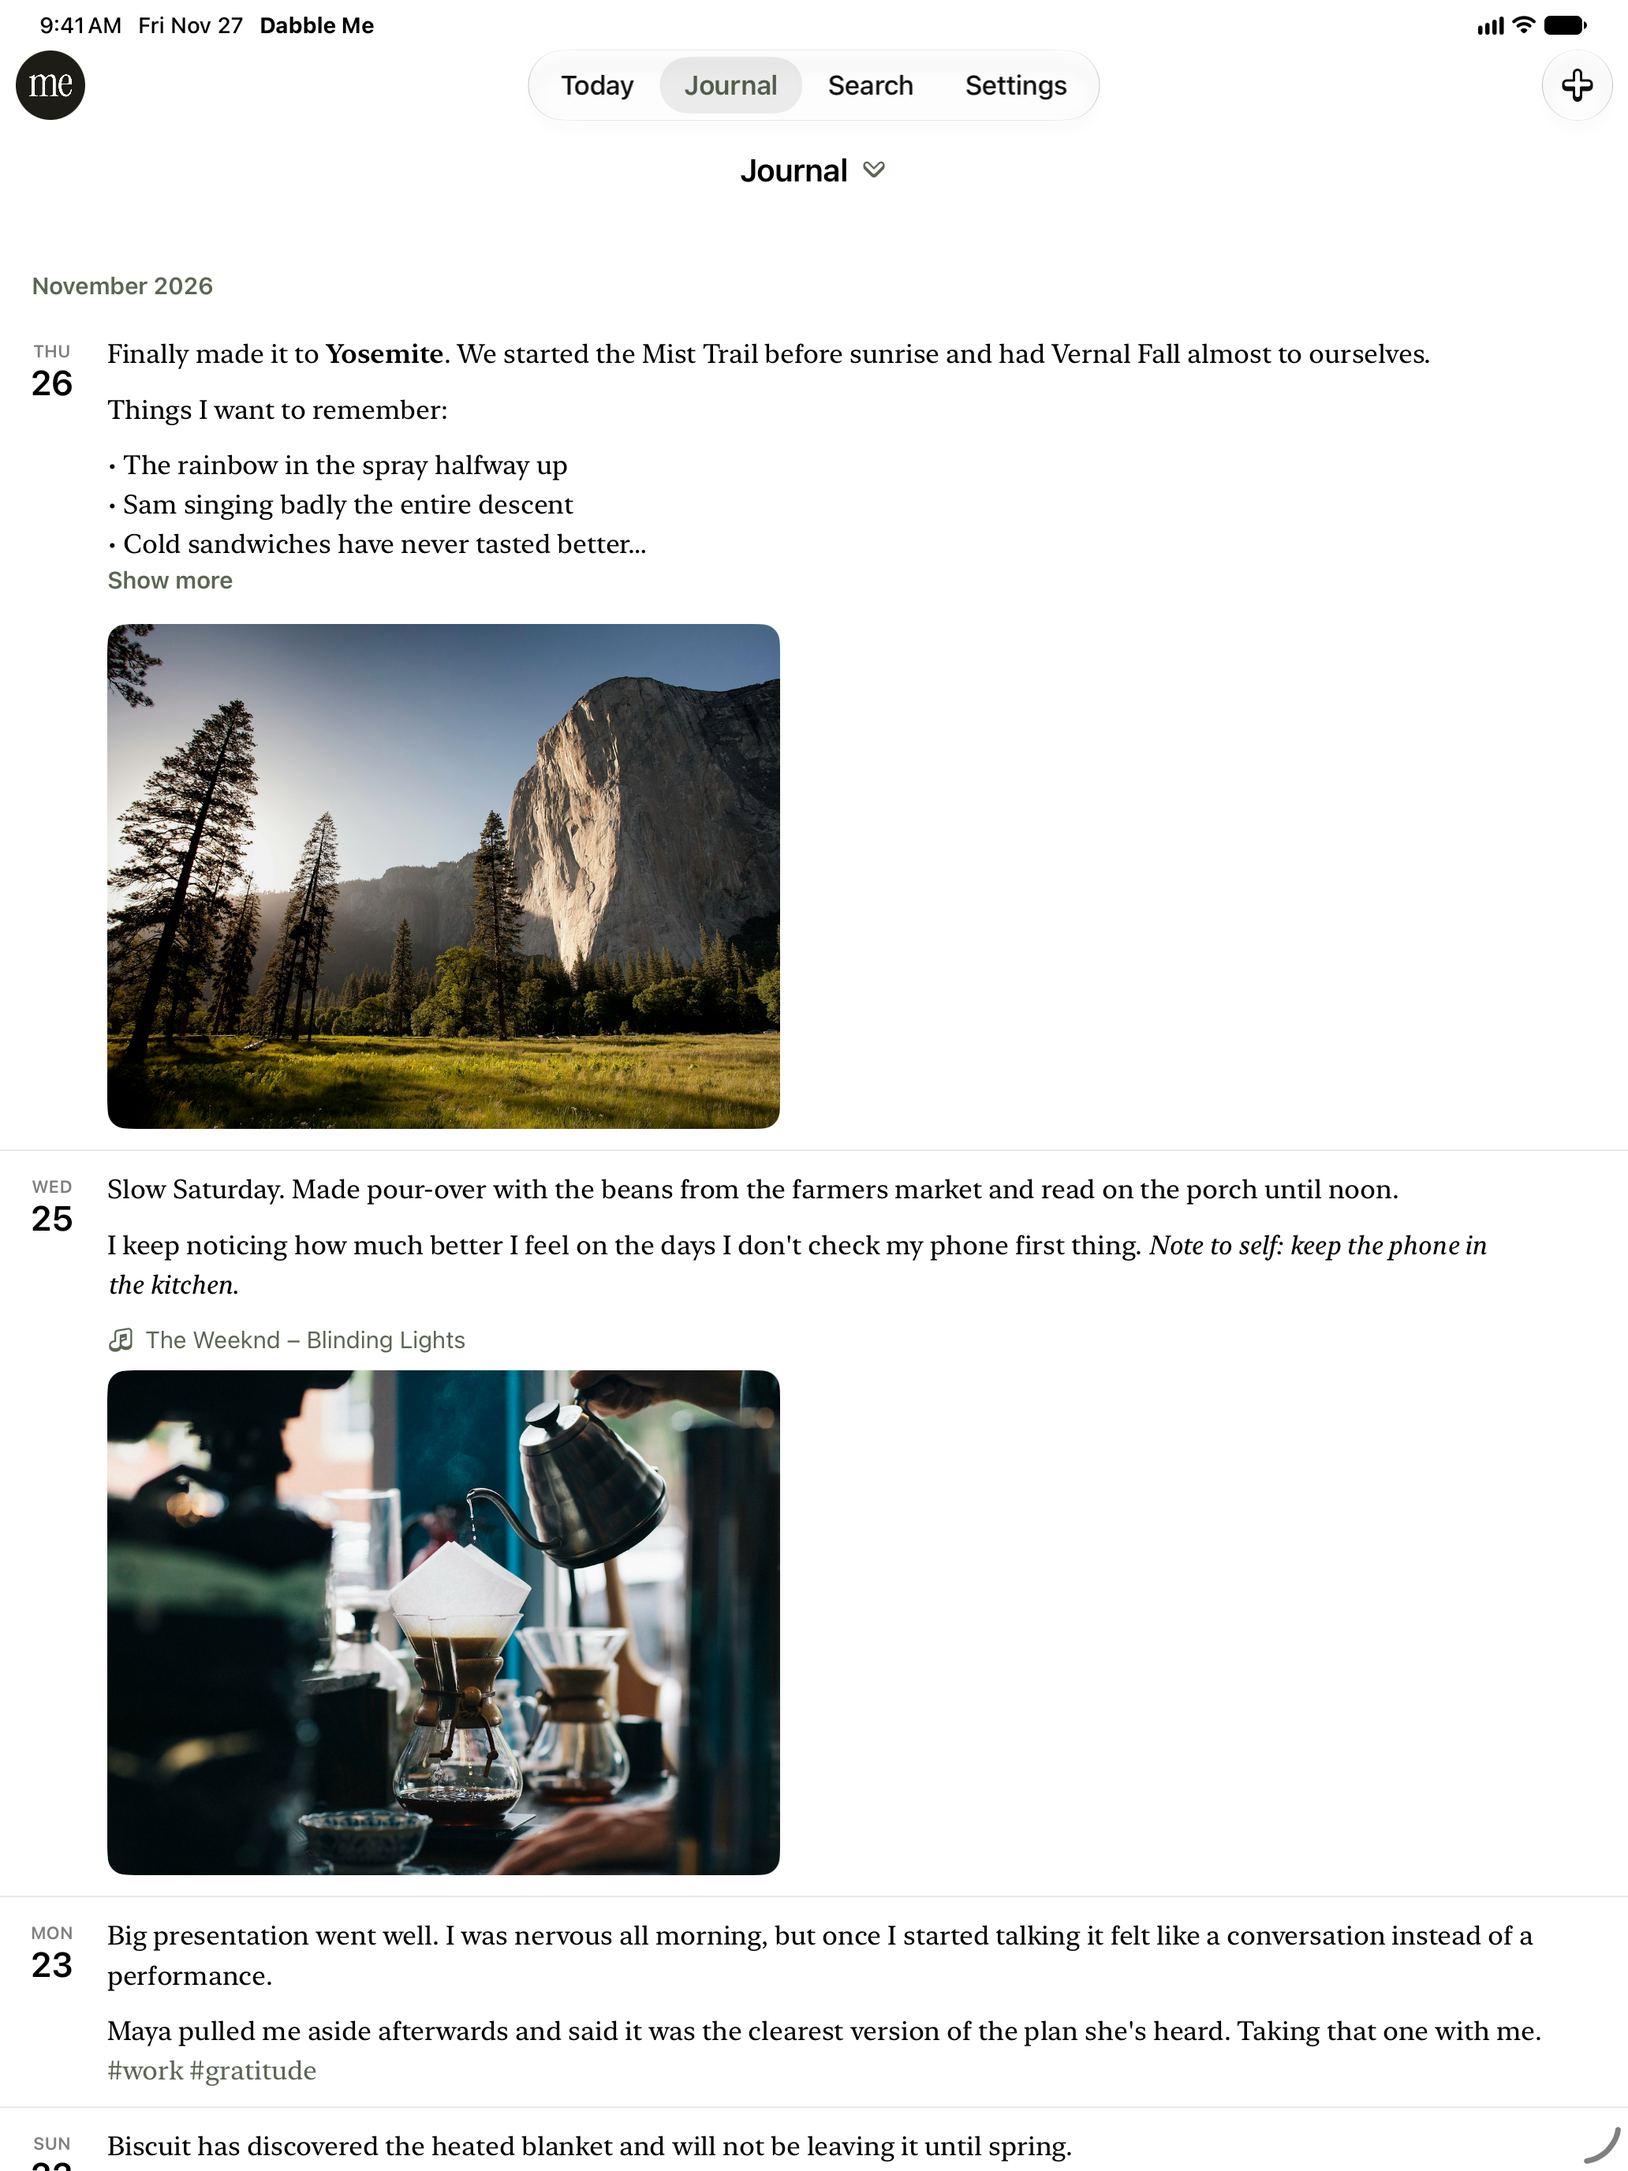
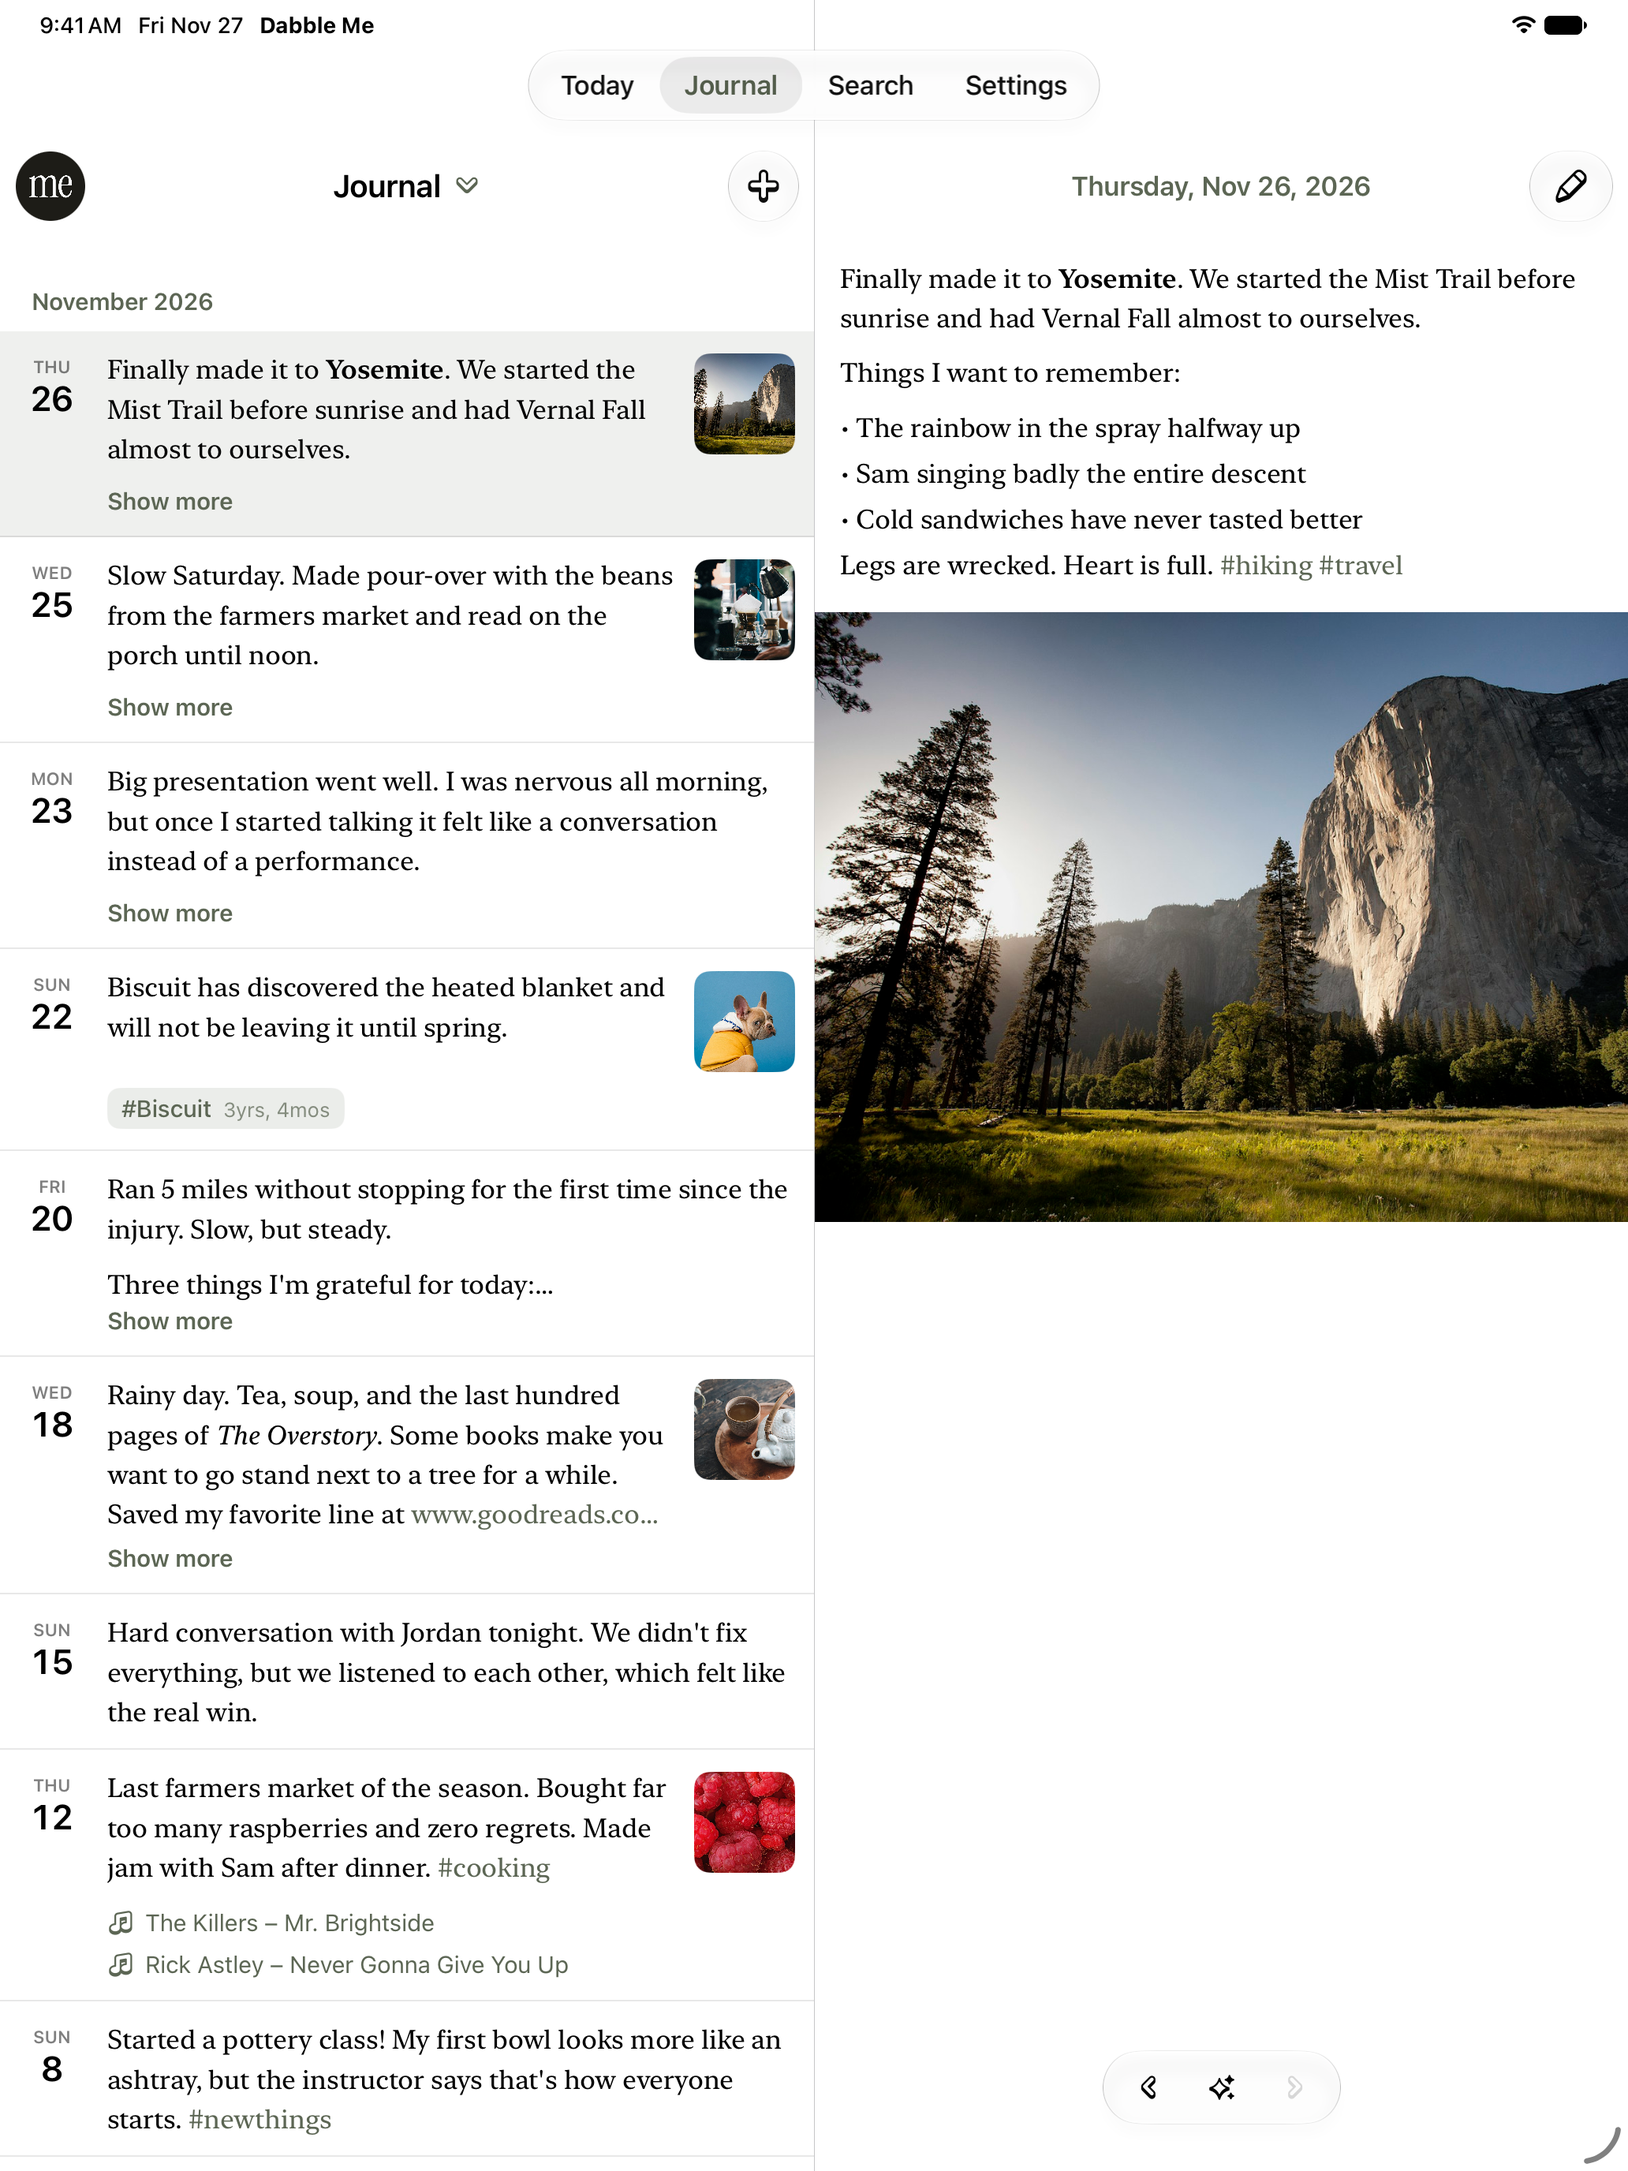
App Store screenshots: iPhone Duo (open and closed) and a new 13" iPad set
ScreenshotTests now runs on wide and short screens: on iPhone Duo open and the iPad, entries open
in the pane beside the Journal and Search, so the Journal, entry, Photos and search shots show one
open there. On the Duo's short screens it moves the list by set amounts and taps an entry's text.
It sets the Journal back to its timeline first, and taps Back by its label. XCTest can only capture
the Duo's outer screen, so with TEST_RUNNER_DABBLE_SCREENSHOT_DISPLAY set the Mac takes each shot
(duo-shooter.sh). Phone runs are unchanged.

diff --git a/ios/DabbleMeUITests/ScreenshotTests.swift b/ios/DabbleMeUITests/ScreenshotTests.swift
@@ -28,7 +28,48 @@ final class ScreenshotTests: XCTestCase {
 
         func shot(_ name: String) {
             sleep(2) // let images finish loading
+            // iPhone Duo: XCUIScreen gives the outer screen, dark while it's open, and the inner one
+            // comes back black. With TEST_RUNNER_DABBLE_SCREENSHOT_DISPLAY set, a script on the Mac
+            // takes the shot instead (`simctl io <device> screenshot --display=<n>`): this leaves a
+            // `<name>.request` file in the folder and waits for the script to remove it.
+            if env["DABBLE_SCREENSHOT_DISPLAY"] != nil {
+                let request = URL(fileURLWithPath: "\(dir)/\(name).request")
+                try? Data().write(to: request)
+                for _ in 0..<60 where FileManager.default.fileExists(atPath: request.path) { usleep(500_000) }
+                XCTAssertFalse(FileManager.default.fileExists(atPath: request.path), "No one took \(name)")
+                return
+            }
             try? XCUIScreen.main.screenshot().pngRepresentation.write(to: URL(fileURLWithPath: "\(dir)/\(name).png"))
+        }
+
+        // Opens a timeline entry. On a short screen (iPhone Duo, either way up) the phone's way
+        // scrolls a tall row's text off the top and taps its photo: move the list by a set amount
+        // instead, then tap the text.
+        func openEntry(_ row: XCUIElement, text: String) {
+            guard app.windows.firstMatch.frame.height < 700 else { return app.openTimelineEntry(row) }
+            _ = row.waitForExistence(timeout: 5)
+            let label = app.staticTexts.matching(NSPredicate(format: "label CONTAINS %@", text)).firstMatch
+            for _ in 0..<12 where !(label.exists && label.isHittable && label.frame.minY > 90 && label.frame.minY < 300) {
+                // Not loaded yet: further down, a swipe away (the list's lazy).
+                if !label.exists { app.collectionViews.firstMatch.swipeUp(velocity: .slow); continue }
+                let up = label.frame.minY > 300
+                let start = app.coordinate(withNormalizedOffset: CGVector(dx: 0.25, dy: up ? 0.75 : 0.35))
+                start.press(forDuration: 0.05, thenDragTo: start.withOffset(CGVector(dx: 0, dy: up ? -200 : 120)),
+                            withVelocity: .slow, thenHoldForDuration: 0.3)
+            }
+            // A long entry unfolds on the first tap and opens on the next. (Beside the pane, the
+            // first opens it, in place of the one there.)
+            label.coordinate(withNormalizedOffset: CGVector(dx: 0.3, dy: 0.2)).tap()
+            for _ in 0..<2 where !app.buttons["Edit Entry"].waitForExistence(timeout: 3) {
+                label.coordinate(withNormalizedOffset: CGVector(dx: 0.3, dy: 0.2)).tap()
+            }
+        }
+
+        // Back from an entry. (By its label: on iPhone Duo closed it sits in the side rail, and
+        // the bar's first button is Edit.)
+        func back() {
+            let button = app.buttons["Back"].firstMatch
+            (button.exists ? button : app.navigationBars.buttons.element(boundBy: 0)).tap()
         }
 
         // 1. Today: prompt, write button, On This Day, and the last five days as dots.
@@ -39,28 +80,67 @@ final class ScreenshotTests: XCTestCase {
         // 4. (Taken here, from Today.) A past entry with the same day in other years under it.
         let memory = app.descendants(matching: .any).matching(NSPredicate(format: "label CONTAINS %@", "Bruges! Wandered")).firstMatch
         XCTAssertTrue(memory.waitForExistence(timeout: 10))
-        app.openTimelineEntry(memory)
+        openEntry(memory, text: "Bruges! Wandered")
         XCTAssertTrue(app.buttons["Edit Entry"].waitForExistence(timeout: 10))
         XCTAssertTrue(app.staticTexts["On This Day"].waitForExistence(timeout: 10))
         // Up a little, so the last of the other years sits clear of the floating buttons.
         let middle = app.coordinate(withNormalizedOffset: CGVector(dx: 0.5, dy: 0.6))
-        middle.press(forDuration: 0.05, thenDragTo: middle.withOffset(CGVector(dx: 0, dy: -110)), withVelocity: .slow, thenHoldForDuration: 0.2)
+        if app.windows.firstMatch.frame.height < 700 {
+            // A short screen (iPhone Duo's): the other years start below the photo, a swipe up.
+            // (Not swipeUp(): from that low, it brings up the home indicator, which then stays.)
+            let low = app.coordinate(withNormalizedOffset: CGVector(dx: 0.87, dy: 0.7))
+            low.press(forDuration: 0.01, thenDragTo: low.withOffset(CGVector(dx: 0, dy: -360)))
+        } else {
+            middle.press(forDuration: 0.05, thenDragTo: middle.withOffset(CGVector(dx: 0, dy: -110)), withVelocity: .slow, thenHoldForDuration: 0.2)
+        }
         shot("04-on-this-day")
-        app.navigationBars.buttons.element(boundBy: 0).tap()
+        // (Scrolled that far, the bar's hidden: back up to it.)
+        for _ in 0..<3 where !app.buttons["Back"].exists { app.scrollViews.firstMatch.swipeDown() }
+        back()
 
+        // Journal's Photos and Stats views, from the title menu.
+        func journalView(_ current: String, _ mode: String) {
+            let title = app.navigationBars.buttons[current].exists ? app.navigationBars.buttons[current] : app.navigationBars.staticTexts[current]
+            XCTAssertTrue(title.waitForExistence(timeout: 10))
+            title.tap()
+            // The menu's items, not the tab bar's buttons of the same name.
+        let item = app.buttons["JournalMode-\(mode)"]
+            XCTAssertTrue(item.waitForExistence(timeout: 5))
+            item.tap()
+        }
         // 2. Journal timeline.
         tab("Journal").tap()
+        // In the timeline, whichever view the app was left in (the Journal keeps it).
+        for mode in ["Photos", "Songs", "Stats"] where app.navigationBars[mode].waitForExistence(timeout: 1) {
+            journalView(mode, "Journal")
+        }
         XCTAssertTrue(app.navigationBars["Journal"].waitForExistence(timeout: 10))
-        shot("02-journal")
+        // A wide screen (iPhone Duo open, iPad) opens entries in a pane beside the list, not over it.
+        // (The pane may come back with the entry it last showed.)
+        let wide = app.staticTexts["No entry open"].waitForExistence(timeout: 3) || app.buttons["Edit Entry"].exists
+        func openTimelineEntry(_ text: String) {
+            openEntry(app.descendants(matching: .any).matching(NSPredicate(format: "label CONTAINS %@", text)).firstMatch, text: text)
+            XCTAssertTrue(app.buttons["Edit Entry"].waitForExistence(timeout: 10))
+        }
 
-        // 3. An entry with formatting and a photo.
-        let entry = app.descendants(matching: .any)
-            .matching(NSPredicate(format: "label CONTAINS %@", "Finally made it to Yosemite")).firstMatch
-        XCTAssertTrue(entry.waitForExistence(timeout: 10))
-        app.openTimelineEntry(entry)
-        XCTAssertTrue(app.buttons["Edit Entry"].waitForExistence(timeout: 10))
-        shot("03-entry")
-        app.navigationBars.buttons.element(boundBy: 0).tap()
+        // 3. An entry with formatting and a photo. On a wide screen the Journal shot has it open
+        // beside the timeline, and the entry shot is another one.
+        if wide {
+            openTimelineEntry("Finally made it to Yosemite")
+            shot("02-journal")
+            openTimelineEntry("Day trip to the falls")
+            shot("03-entry")
+        } else {
+            shot("02-journal")
+            openTimelineEntry("Finally made it to Yosemite")
+            shot("03-entry")
+            back()
+        }
+        // Back to the top, where the title bar (and its New Entry) shows again.
+        let first = app.staticTexts.matching(NSPredicate(format: "label CONTAINS %@", "Finally made it to Yosemite")).firstMatch
+        for _ in 0..<8 where !(first.exists && first.isHittable) || !app.buttons["New Entry"].isHittable {
+            app.collectionViews.firstMatch.swipeDown()
+        }
 
         // 4. Writing, with the formatting bar, photos and on-device hashtag suggestions.
         app.buttons["New Entry"].tap()
@@ -101,15 +181,6 @@ final class ScreenshotTests: XCTestCase {
         sleep(1)
 
         // 7–8. Journal's Photos and Stats views, from the title menu.
-        func journalView(_ current: String, _ mode: String) {
-            let title = app.navigationBars.buttons[current].exists ? app.navigationBars.buttons[current] : app.navigationBars.staticTexts[current]
-            XCTAssertTrue(title.waitForExistence(timeout: 10))
-            title.tap()
-            // The menu's items, not the tab bar's buttons of the same name.
-        let item = app.buttons["JournalMode-\(mode)"]
-            XCTAssertTrue(item.waitForExistence(timeout: 5))
-            item.tap()
-        }
         journalView("Journal", "Photos")
         XCTAssertTrue(app.buttons.matching(NSPredicate(format: "label BEGINSWITH 'Photo from'")).firstMatch.waitForExistence(timeout: 10))
         sleep(6) // the cells load full-size photos; on a cold cache two seconds showed one of eight
@@ -127,6 +198,10 @@ final class ScreenshotTests: XCTestCase {
         XCTAssertTrue(app.descendants(matching: .any).matching(NSPredicate(format: "label CONTAINS %@", "Yosemite")).firstMatch
             .waitForExistence(timeout: 10))
         if app.keyboards.count > 0 { app.swipeDown() }
+        if wide {
+            // A result open in the pane beside the list.
+            openTimelineEntry("Finally made it to Yosemite")
+        }
         shot("10-search")
     }
 }

diff --git a/ios/README.md b/ios/README.md
@@ -134,7 +134,7 @@ TEST_RUNNER_DABBLE_TOKEN=<token> xcodebuild test -project DabbleMe.xcodeproj -sc
 - They talk to `http://localhost:3000`. If something else on the Mac has taken that port on localhost (an editor's port forwarding answers 403), point them at the Mac's own address: `TEST_RUNNER_DABBLE_SERVER=http://$(ipconfig getifaddr en0):3000`.
 - Start Puma before Sidekiq, a few seconds apart: `.env` is a 1Password pipe, and two processes opening it at once can leave one without AWS keys.
 - **Face ID lock test:** enroll Face ID on the simulator (`xcrun simctl spawn <device> notifyutil -s com.apple.BiometricKit.enrollmentChanged 1` and then `-p` the same name). Run a helper that sends one match (`xcrun simctl spawn <device> notifyutil -p com.apple.BiometricKit_Sim.pearl.match`) whenever `$TEST_RUNNER_DABBLE_DEBUG_DIR/faceid-match` appears, then deletes the file. Also set `TEST_RUNNER_DABBLE_FACE_ID=1`.
-- **App Store screenshots:** set `TEST_RUNNER_DABBLE_SCREENSHOT_DIR` and run `ScreenshotTests` on the iPhone 18 Pro (1206 × 2622) and iPad Pro 13" simulators. Reset the demo account first so Today has no entry yet, and set each simulator's status bar (`xcrun simctl status_bar <device> override --time 9:41 --batteryState discharging --batteryLevel 100 --wifiBars 3 --cellularBars 4`) and appearance (`xcrun simctl ui <device> appearance light`). It writes ten, `01-today` to `10-search`; copy them into `AppStore/Screenshots/` and run `Header and Search Results/source/render.sh` for the two wide images.
+- **App Store screenshots:** set `TEST_RUNNER_DABBLE_SCREENSHOT_DIR` and run `ScreenshotTests` on the iPhone 18 Pro (1206 × 2622) and iPad Pro 13" simulators. Reset the demo account first so Today has no entry yet, and set each simulator's status bar (`xcrun simctl status_bar <device> override --time 9:41 --batteryState discharging --batteryLevel 100 --wifiBars 3 --cellularBars 4`) and appearance (`xcrun simctl ui <device> appearance light`). It writes ten, `01-today` to `10-search`; copy them into `AppStore/Screenshots/` and run `Header and Search Results/source/render.sh` for the two wide images. On the iPhone Duo (open: `AppStore/Screenshots/iPhone Duo/`, 2853 × 2007; closed: `iPhone Duo closed/`, 1398 × 2034), XCTest can only capture the outer screen: run `AppStore/Screenshots/duo-shooter.sh <device> <display> <folder>` alongside and pass `TEST_RUNNER_DABBLE_SCREENSHOT_DISPLAY=1`, and take the open set with the hinge open and the closed set with it closed.
 - **Free-account controls:** `bundle exec rails ios:free_account` prints a token for `TEST_RUNNER_DABBLE_FREE_TOKEN` (e.g. the email schedule's locked days).
 - **First-time hashtag suggestions:** `bundle exec rails ios:empty_account` prints a token for a PRO account with no hashtags; pass it as `TEST_RUNNER_DABBLE_EMPTY_TOKEN`.
 - **Widget test:** `WidgetTests` adds the widget to the simulator's home screen and screenshots it; set `TEST_RUNNER_DABBLE_WIDGET=1`.
